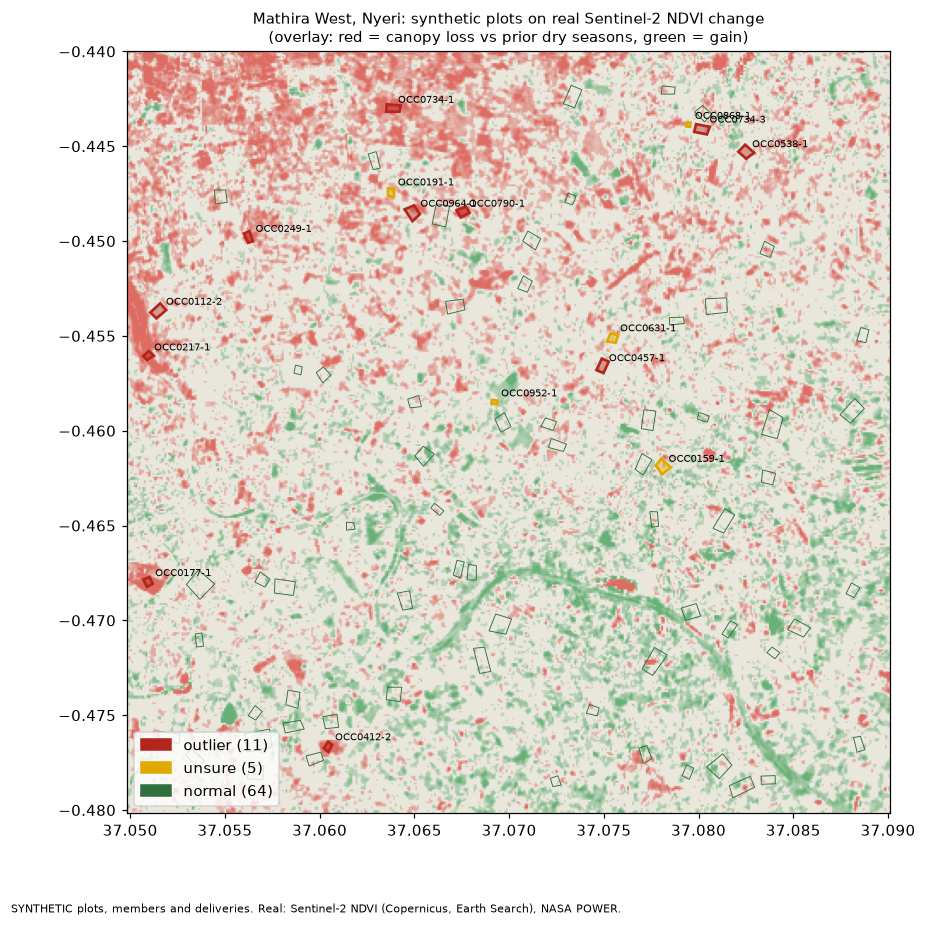
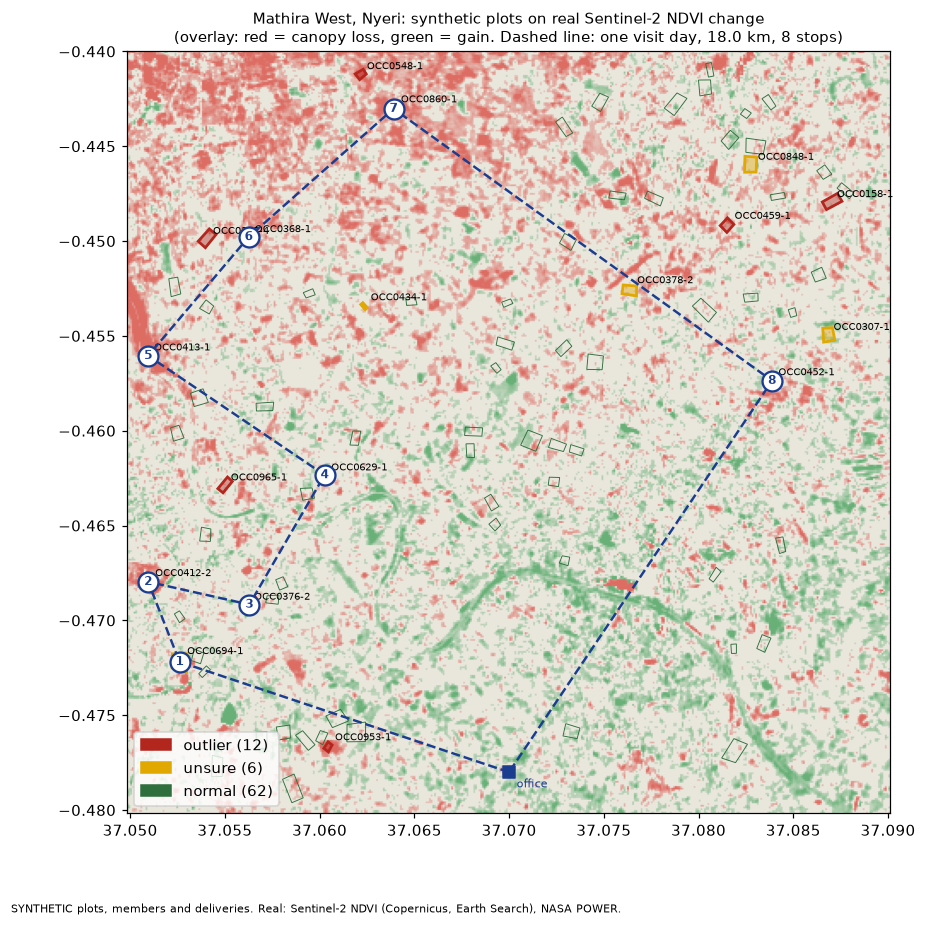
geo: report, contract and status for visit plan and season support

diff --git a/kb/geo/REPORT.md b/kb/geo/REPORT.md
@@ -1,92 +1,117 @@
-# Geo report: cooperative outlier map
+# Geo report: cooperative outlier map and officer visit plan
 
-Built Sat 3 Oct 2026, about 23:00 CEST, by the geo agent. Sentinel-2 works, so NDVI is in (no cut at 02:00 needed).
+Owner: geo agent. Last rebuilt Sat 3 Oct 2026, evening. Sentinel-2 works, so NDVI is in (no 02:00 cut needed).
 
 ## What it is for
-The officer comes twice a year. The cooperative already holds a delivery record per member. This map shows which plots fell or rose much more than their neighbours this season, adds a satellite canopy check, and says plainly where the data is too thin to judge. It points the officer's visits; it does not decide anything.
+The officer reaches the sub-county twice a year at best. The cooperative already holds a delivery record per member. This map answers one question: **which plots should the officer's limited visits go to, and why?** It combines up to three independent signals, says plainly where the data is too thin to judge, and orders one visit day into a short route. It points the visits. It decides nothing.
 
-Where this sits next to the leaf check: Noor's plot (OCC0412-2) is flagged `drop_with_canopy_loss`, so the officer has a reason to visit before the short rains, and her own leaf check referral (`JANI1 M:OCC0412 P:2 ...`) lands on the same plot.
+Where it meets the leaf check: Noor's plot (OCC0412-2) is flagged by satellite and deliveries, and her own leaf-check referral (`JANI1 M:OCC0412 P:2 ... R:6 ...`) lands on the same plot. Three independent signals, one plot.
 
 ## Real and synthetic
 | Part | Real or synthetic | Source |
 |---|---|---|
-| Land under plots, NDVI per season | Real | Sentinel-2 L2A, Earth Search STAC, tile 37MBV |
-| Rainfall per season | Real | NASA POWER `PRECTOTCORR`, point 37.07 E, 0.46 S |
+| Land under plots, dry-season NDVI 2023 to 2026, wet-season NDVI 2025 | Real | Sentinel-2 L2A, Earth Search STAC, tile 37MBV |
+| Rainfall, rain onset, wetness of each NDVI window | Real (model grid) | NASA POWER `PRECTOTCORR`, point 37.07 E, 0.46 S |
 | Area | Real place | Mathira West, Nyeri County, 37.05 to 37.09 E, 0.44 to 0.48 S (about 4.4 x 4.4 km) |
 | Members, plot polygons, tree counts, deliveries | **Synthetic**, seed 20261004 | `app/geo/make_plots.py` |
+| 18 seed leaf-check referrals | **Synthetic** | `app/geo/visit_plan.py` |
 | Yield baseline 3.0 kg cherry per tree | Cited | MOALF 2014 via Mugendi et al. 2015, Nyeri, 2013/14 |
 | 1,300 trees per ha | Cited | Coffee Directorate, Coffee Year Book 2022/23 |
-| Year-to-year cooperative factor (0.85, 1.05, 1.00, 0.85), 15% delivery noise | **Assumption** | Loosely follows the real rainfall pattern |
+| Cooperative factor per year (0.85, 1.05, 1.00, 0.85), 15% delivery noise | **Assumption** | Loosely follows the real rainfall pattern |
+| Visit capacity (8 plots a day), road factor 1.4, priority weights, office location | **Assumption** | No real visit data exists |
 
-Plots were placed only where the prior dry-season NDVI was 0.55 to 0.88 (woody, green in the dry season, not dense forest). We do not know that coffee grows inside any polygon.
+Plots are placed only on land that looks perennial: dry-season NDVI 0.55 to 0.88 in the prior years, wet-season NDVI at least 0.60, and under 0.15 NDVI between the 2025 dry and wet composites (coffee is evergreen; annual crops swing). This removes 12% of pixels. It is a plausibility filter, not a coffee map. We do not know that coffee grows inside any polygon.
 
-## Real data found
-Dry-season NDVI medians over the area: 0.52 (2023), 0.71 (2024), 0.69 (2025), 0.65 (2026). Scenes used per season: 12, 13, 15, 15.
+Noor's drop (deliveries x0.40, no noise) is scripted so the demo story is stable. Every other plot follows its random draw.
 
-Rainfall (NASA POWER, anomaly against 1991 to 2020):
-| Coffee year | Short rains (Oct to Dec) | Long rains (Mar to May) |
-|---|---|---|
-| 2022/23 | -18% | +48% |
-| 2023/24 | +85% | +123% |
-| 2024/25 | +14% | +9% |
-| 2025/26 | -13% | +18% |
+## What the real data says
+**NDVI.** Dry-season medians over the area: 0.52 (2023), 0.71 (2024), 0.69 (2025), 0.65 (2026), from 12, 13, 15 and 15 scenes. Wet-season 2025: 0.69 from 22 scenes.
 
-The low 2023 NDVI follows the poor 2022 short rains. 2023/24 was very wet. This matches what we know of the 2022 drought and the 2024 floods, but we have not cross-checked against CHIRPS.
+**Rain onset (NASA POWER, simplified rule, assumption).** Onset is the first day from 15 Sep (short rains) or 1 Mar (long rains) with 3 days totalling 20 mm or more and no dry run over 7 days in the next 21.
+| | Median onset 1991 to 2020 | Spread (sd) | Earliest to latest |
+|---|---|---|---|
+| Short rains | 19 Oct | 17 days | 17 Sep to 8 Dec |
+| Long rains | 21 Mar | 15 days | 1 Mar to 22 Apr |
 
-## Planted scenarios (synthetic) and results
-| Scenario | Count | What was planted | Expected | Result |
-|---|---|---|---|---|
-| `decline_with_canopy_loss` | 4 | Deliveries x0.45, plot on a real NDVI-loss patch | `outlier`, `drop_with_canopy_loss` | 4 exact (one only through the corroboration rule: delivery z -2.95, canopy z -11) |
-| `delivery_gap_canopy_ok` | 4 | Deliveries x0.40, stable real NDVI | `outlier`, `drop_canopy_normal` | 3 caught. 1 missed (delivery z -2.67) |
-| `over_delivery` | 2 | Deliveries x2.3 | `outlier`, `delivery_spike` | 2 caught |
-| `canopy_loss_early` | 2 | Normal deliveries, real NDVI-loss patch | `outlier`, `canopy_loss` | 2 caught |
-| `new_member` | 2 | One prior season only | `unsure` | 2 abstained |
-| `tiny_plot` | 2 | 0.05 to 0.08 ha, deliveries x0.5 | `unsure` | 2 abstained |
-| `missing_record` | 1 | No delivery this season | `unsure` | 1 abstained |
-| `normal` | 63 | Nothing | `normal` | 63 normal, 0 false flags |
+Share of years with short-rains onset by date: 13% by 1 Oct, 47% by 15 Oct, 87% by 31 Oct, 97% by 15 Nov. Recent onsets: 25 Sep 2019, 22 Sep 2020, 18 Oct 2021, 29 Oct 2022, 4 Oct 2023, 4 Nov 2024, 2 Oct 2025.
 
-Overall: 79 of 80 plots got the expected status and reason. Cooperative median change this season: -12.5% (area-wide drop, flagged as context, not against any member).
+**This year.** NASA POWER ends 30 Sep 2026. September rain was 68 mm against a 57 mm mean (z +0.5), 6.7 mm in the last 7 days. Short-rains onset is not confirmed yet.
 
-### Seed sweep (30 synthetic registries, real NDVI and rainfall fixed)
-`app/geo/sweep.py`, output `app/geo/data/sweep.json`. One seed flatters the model, so the registry was rebuilt 30 times.
-| Measure | Mean | Worst seed |
-|---|---|---|
-| Plots with the expected status and reason | 97.4% | 92.5% |
-| Planted problems caught (status right) | 92.4% | 76.5% |
-| Normal plots flagged per seed (of 63) | 0.4 | 2 |
+**Why this matters for the decision.** The master prompt says copper sprays start in mid October, before the short rains. That fits the median onset (19 Oct), but in about half of years the rains are already under way by 15 Oct. A fixed calendar window is right about half the time. See requests in `kb/STATUS.md`.
 
-Weakest scenarios over 30 seeds: `delivery_gap_canopy_ok` was missed 22 of 120 times (18%), `over_delivery` 9 of 60 (15%). Both are deliveries that moved by a factor of 2 to 2.5 with 15% noise and a spread in the cooperative's own history; some land inside z of 3. Abstentions (`new_member`, `tiny_plot`, `missing_record`) fired every time. Eight normal plots over 30 seeds became `unsure` (thin pixels), and three were flagged `outlier` by chance.
+**Wetness of the NDVI windows.** The "dry season" window (1 Jan to 15 Mar) was not equally dry each year:
+| Window | Rain (mm) | Mean (mm) | z |
+|---|---|---|---|
+| 2023 | 89 | 137 | -0.5 |
+| 2024 | 324 | 137 | +2.0 |
+| 2025 | 138 | 137 | 0.0 |
+| 2026 (current) | 396 | 137 | +2.8 |
+
+The current window was far wetter than normal. Plots are scored against nearby plots, which cancels most area-wide effects, but small canopy changes should be read with care. This is exposed in `outliers.json` as `context.ndviWindowRain`.
+
+## Planted scenarios and results (synthetic, seed 20261004)
+| Scenario | Count | What was planted | Result |
+|---|---|---|---|
+| `decline_with_canopy_loss` | 4 | Deliveries x0.45 on a real NDVI-loss patch | 4 `drop_with_canopy_loss` or equivalent outlier |
+| `delivery_gap_canopy_ok` | 4 | Deliveries x0.40, stable real NDVI | 3 outlier; 1 `unsure` (real canopy z -1.7 is unclear, so the model declined to call it) |
+| `over_delivery` | 2 | Deliveries x2.3 | 2 outlier |
+| `canopy_loss_early` | 2 | Normal deliveries on a real NDVI-loss patch | 2 `canopy_loss` |
+| `new_member`, `tiny_plot`, `missing_record` | 5 | Thin history, under 0.10 ha, no record | 5 `unsure` |
+| `normal` | 63 | Nothing | 62 normal; 1 flagged `canopy_loss` |
+
+78 of 80 plots got the expected status and reason. The one false flag (OCC0459-1) is a real satellite signal: its canopy fell (local z -3.3) while deliveries were normal. We did not plant that, but it is in the real data. The model is right to show it.
+
+Cooperative median delivery change this season: -13.0% (context only, not held against any member). Noor: deliveries -58%, NDVI 0.83 to 0.36, delivery z -3.8, canopy z -13.8.
 
 ### Seed sweep (30 synthetic registries, real NDVI and rainfall fixed)
 `app/geo/sweep.py`, output `app/geo/data/sweep.json`. One seed flatters a model, so the registry and noise were rebuilt 30 times.
-| Measure | Result |
-|---|---|
-| Plots with expected status and reason | 97% on average, 93% in the worst seed |
-| Planted cases given the expected status | 92% on average, 77% in the worst seed |
-| Normal plots flagged as outlier | 3 in 1,890 plot-runs; 8 more marked unsure (thin pixels), 0 to 2 per seed |
-| `over_delivery` (x2.3) missed | 9 of 60 |
-| `delivery_gap_canopy_ok` (x0.40) missed | 22 of 120 (18%) |
+| Measure | Mean | Worst seed |
+|---|---|---|
+| Plots with expected status and reason | 97.7% | 93.8% |
+| Planted cases given the expected status | 92.2% | 70.6% |
+| Normal plots flagged as outlier per seed (of 63) | 0.27 | 1 |
 
-Misses are mostly deliveries-only signals, where there is no satellite corroboration and the member's own noise sits close to the threshold. We did not lower the threshold to win these back: it would raise false flags on real, noisier data.
+Of 1,890 normal plot-runs, 8 were flagged outlier: 7 `canopy_loss` on real NDVI falls and 1 from delivery noise. Weakest scenarios: `over_delivery` missed 17 of 60 times (28%) and `delivery_gap_canopy_ok` 23 of 120 (19%). A x2.3 jump is only about 3.4 robust z-scores against the cooperative's spread, so it sits near the threshold. We did not lower the threshold to win these back: it would add false flags on real, noisier records.
 
-**What these numbers prove:** the rules do what they say on data built to test them. **What they do not prove:** anything about a real cooperative. The scenarios and the noise were written by us, so the hit rate mostly reflects how far the planted effects sit from the noise we chose. The remaining miss is honest: a 55% fall with a normal canopy can sit inside the threshold when the cooperative's own spread is wide. We did not lower the threshold to catch it.
+## Officer visit plan
+`visit_plan.json` ranks every plot by priority points from three signals, groups them into tiers, and orders up to 8 tier A plots (one visit day, assumption) into a closed route from the cooperative office.
+| Signal | Source | Points |
+|---|---|---|
+| Canopy fell much more than neighbours (z at most -3) | Real Sentinel-2 | 40 (25 if z at most -2) |
+| Deliveries fell (z at most -3) | Synthetic record | 30 (15 if z at most -2) |
+| Deliveries rose (z at least 3) | Synthetic record | 20 |
+| Farmer sent a leaf check showing rust on 3 or more of 10 leaves | Synthetic referral | 40 |
+| Farmer's check could not decide | Synthetic referral | 25 |
+| Other problem referral | Synthetic referral | 25 |
+| Data too thin, nothing else | Registry | 5 |
+
+Tier A is 40 points or more (visit now), tier B is 20 to 39 (call the member or check records), tier C is below. Points are a transparent sum, not a probability. A plot with signals from several independent sources ranks above one with a single signal of the same size.
+
+Result on the seed run: tier A 16, B 9, C 55. 18 plots have a linked referral. 9 plots have two or more independent signals. The 8-stop loop is 18.0 km against 28.1 km for the same stops in random order (straight-line times 1.4, not road routing).
+
+**Does the ranking beat chance? (satellite and deliveries only, planted scenarios, synthetic).** Seed run: 7 of the top 8 are planted problems (88%), and all 6 planted canopy-loss plots are in the top 8. Chance is 15%. Over 30 seeds: 93% mean, 75% worst. Route saving against random order: 47% mean, 44% worst.
+
+## What these numbers prove and do not prove
+They show the rules do what they say on data built to test them, and that combining signals puts the planted problems first. They prove nothing about a real cooperative. The scenarios and noise are ours, so the hit rate mostly reflects how far the planted effects sit from the noise we chose. The priority weights are assumptions. They need real visit outcomes to tune, and until then the officer should treat the order as a starting point.
 
 ## Limits and what the data does not cover
-- **No real delivery data.** Thresholds are set by reasoning, not tuned on real records. A real cooperative would need to check the false-flag rate on its own history first.
+- **No real delivery or visit data.** Thresholds and weights are set by reasoning. A real cooperative must check the false-flag rate on its own history first.
 - **NDVI is not coffee health.** Loss can mean stumping or pruning (normal practice), felling, a new building, intercrop removal or disease. It cannot see leaf rust directly. That is the leaf check's job.
-- **Shade trees and intercrops** mix into each 10 m pixel. Smallholder coffee plots of 0.15 ha are only about 15 pixels.
-- **Regional gradient.** The north of the area shows a broad real NDVI decline in early 2026 (northern third, prior median 0.69 to 0.61; plot median change -0.003 in the south, -0.059 in the north). It is not cloud: clear-observation counts are the same north and south (12 to 13). To stop it reading as plot-level loss, the canopy score compares each plot with its 12 nearest plots, not the whole area. This cost no hits on the planted scenarios. The cause of the gradient is unknown to us (rain timing, land-use change, or a processing effect).
-- **One dry season per year.** January to mid March only. The July to September cool dry season is often overcast in the highlands and is not used.
-- **Rainfall is one value for all plots.** NASA POWER is about 0.5 x 0.625 degrees. It gives context, not per-plot cause. CHIRPS (about 5 km) would be the next step.
+- **Shade trees and intercrops** mix into each 10 m pixel. A 0.15 ha plot is about 15 pixels, and fewer after the edge is excluded. Under 10 clear pixels the model abstains.
+- **Regional gradient.** The north of the area shows a broad real NDVI decline in early 2026 (plot median change -0.003 in the south, -0.059 in the north). It is not cloud: clear-observation counts match north and south. Each plot is compared with its 12 nearest plots. We do not know the cause.
+- **Wet "dry season" in 2026** (above). Four seasons are too few to model a rainfall adjustment.
+- **One dry season per year.** January to mid March only. July to September is often overcast in the highlands.
+- **Rainfall is one value for the whole area.** NASA POWER is about 0.5 x 0.625 degrees. It gives context, not per-plot cause. The onset rule is simplified and is not the Kenya Met Department definition. CHIRPS (about 5 km) would be the next step.
 - **Registry quality.** Tree counts are the weakest number in any real registry. `above_plausible_yield` exists because a wrong tree count looks exactly like an outlier.
-- **Side-selling.** `drop_canopy_normal` is consistent with selling to a middleman, but also with late picking, theft, illness or a record error. The officer asks; the map does not accuse.
+- **Side-selling.** `drop_canopy_normal` fits selling to a middleman, but also late picking, theft, illness or a record error. The officer asks; the map does not accuse.
+- **Routing** is straight-line distance times a factor, not roads or terrain.
 
 ## Privacy
-Member numbers only, no names. Plot polygons in a real deployment are personal data: they should stay on the cooperative's systems with member consent, and the public demo uses synthetic polygons only.
+Member numbers only, no names. Plot polygons in a real deployment are personal data. They should stay on the cooperative's systems with member consent. The public demo uses synthetic polygons only. Seed referrals are fake members and fake checks.
 
 ## Files
-- Code: `app/geo/` (`config.py`, `fetch_ndvi.py`, `fetch_rain.py`, `make_plots.py`, `outliers.py`, `validate.py`, `sweep.py`, `preview.py`, `run.sh`)
-- Preview image: `kb/geo/preview.png`
-- Committed derived data: `app/geo/data/` (`rainfall.json`, `ndvi_scenes.json`, `registry.geojson`, `truth.json`, `eval.json`, `sweep.json`)
-- Outputs: `app/public/geo/` (`plots.geojson`, `outliers.json`, `ndvi_change.png`)
+- Code: `app/geo/` (`config.py`, `fetch_ndvi.py`, `fetch_rain.py`, `season.py`, `make_plots.py`, `outliers.py`, `visit_plan.py`, `validate.py`, `sweep.py`, `preview.py`, `run.sh`)
+- Committed derived data: `app/geo/data/` (`rainfall.json`, `season_support.json`, `ndvi_scenes.json`, `registry.geojson`, `truth.json`, `eval.json`, `visit_eval.json`, `sweep.json`)
+- Outputs: `app/public/geo/` (`plots.geojson`, `outliers.json`, `ndvi_change.png`, `visit_plan.json`, `referrals_seed.json`)
+- Preview: `kb/geo/preview.png`
 - Contract: `kb/geo/CONTRACT.md`

diff --git a/kb/STATUS.md b/kb/STATUS.md
@@ -31,8 +31,10 @@ Update your own rows only. Keep it short. Status: `todo`, `doing`, `blocked`, `d
 | C2 | Swahili + Kikuyu translations | content-voice | Sat 23:30 | todo | |
 | C3 | Audio rendered (ElevenLabs, MMS) | content-voice | Sun 00:30 | todo | needs L2 |
 | G1 | Real data: Sentinel-2 dry-season NDVI (Earth Search, SCL mask) and NASA POWER rainfall, Mathira West, Nyeri | geo | Sun 02:00 | done | 4 composites (Jan to mid Mar 2023 to 2026, 12 to 15 scenes each); rainfall 1991 to Sep 2026. NDVI kept, no cut |
-| G2 | Synthetic registry (80 plots, 66 members) and deliveries with planted scenarios, labelled synthetic | geo | Sun 02:00 | done | Noor is OCC0412-2 (`drop_with_canopy_loss`) |
-| G3 | Robust-z outlier model, reason codes, abstention; `public/geo/plots.geojson`, `outliers.json`, `ndvi_change.png` | geo | Sun 02:00 | done | 79 of 80 planted cases as expected, 0 false flags on 63 normal; over 30 seeds 97% match, 92% of planted problems caught, 0.4 false flags per 63 (all synthetic). Contract `kb/geo/CONTRACT.md`, report `kb/geo/REPORT.md` |
+| G2 | Synthetic registry (80 plots, 63 members) on perennial-looking land, deliveries with planted scenarios, labelled synthetic | geo | Sun 02:00 | done | Noor is OCC0412-2 (scripted drop, `drop_with_canopy_loss`) |
+| G3 | Robust-z outlier model with local canopy baseline, reason codes, abstention; `public/geo/plots.geojson`, `outliers.json`, `ndvi_change.png` | geo | Sun 02:00 | done | 78 of 80 as expected (seed run). 30 seeds: 98% match, 0.27 false outliers per 63 normal plots (synthetic). Contract `kb/geo/CONTRACT.md`, report `kb/geo/REPORT.md` |
+| G4 | Rain onset and season windows from NASA POWER; wetness of each NDVI window | geo | Sun 02:00 | done | `app/geo/data/season_support.json`. Short-rains onset median 19 Oct, sd 17 days, before 15 Oct in 47% of years |
+| G5 | Officer visit plan (ranked, tiers, 8-stop route) and 18 synthetic seed referrals | geo | Sun 02:00 | done | `public/geo/visit_plan.json`, `referrals_seed.json`. Top 8 hold 93% of planted problems over 30 seeds vs 15% by chance (synthetic) |
 | D1 | Doc skeletons | docs | Sat 22:30 | todo | |
 | D2 | DATA_CARD, RESPONSIBLE_AI, LANGUAGES, REPLICATION | docs | Sun 10:30 | todo | needs R1, R3, M5 |
 | D3 | README final | docs | Sun 11:00 | todo | |
@@ -51,9 +53,14 @@ Update your own rows only. Keep it short. Status: `todo`, `doing`, `blocked`, `d
 - geo to lead: `kb/agents/geo.md`, `kb/research/EVIDENCE.md` and MASTER_PROMPT sections 3.4 and 3.5 were not in the repo when geo ran. Built from the task spec instead. Please add the geo paths (`app/geo/**`, `app/public/geo/**`, `kb/geo/**`) to `kb/OWNERSHIP.md`.
 - geo to engine: please add a "Geo outputs" section to `kb/CONTRACTS.md` pointing to `kb/geo/CONTRACT.md`.
 - geo to research: yield baseline (E3) used 3.0 kg cherry per tree, Nyeri, MOALF 2014 via Mugendi et al. 2015, and 1,300 trees per ha (Coffee Year Book 2022/23). Replace if E3 says otherwise.
+- geo to research: NASA POWER gives short-rains onset median 19 Oct, sd 17 days, onset by 15 Oct in 47% of years and by 1 Oct in 13% (simplified rule, assumption). A fixed "mid October" window is right about half the time. Please cross-check against Kenya Met Department or CHIRPS before it goes in `season.json`. Details and suggested windows in `app/geo/data/season_support.json`.
+- geo to lead and engine: because onset varies by weeks, consider one yes/no question in the farmer flow ("have the rains started?") feeding `seasonWindow`. The person answers; the tool does not guess. Your call.
+- geo to engine and content-voice: `kb/agents/content-voice.md` puts `distinct_problems_gte: 2` before the rust rule, but the contract example `JANI1 ... R:6 ... L:1 ... A:rust_high_pre_rains` has two problems. Rule order and example disagree. Geo seeds use the rule order and give Noor 6 rust only.
+- geo to ui: officer map also reads `/geo/visit_plan.json` (ranked plots, route, signal text) and `/geo/referrals_seed.json` (18 synthetic referrals matching the `referrals` table plus `sms`, `lon`, `lat`). Always show a ranked plot with its `signals`. Mark everything synthetic. Rules in `kb/geo/CONTRACT.md`.
 - geo to ui: officer map reads `/geo/plots.geojson` and `/geo/outliers.json`; overlay `/geo/ndvi_change.png` with `overlay.bounds`. Show the synthetic tag. Rules in `kb/geo/CONTRACT.md`.
 
 ## Log
 - Sat 21:00: kb set up, six agent briefs written.
 - Sat 23:00: geo G1 to G3 done. Sentinel-2 and NASA POWER both working.
 - Sat 23:30: geo: local canopy baseline, corroboration rule, contract validator, 30-seed sweep, preview map.
+- Sat 23:50: geo: season/rain-onset analysis, perennial-land filter, officer visit plan and seed referrals (G4, G5).

diff --git a/kb/geo/CONTRACT.md b/kb/geo/CONTRACT.md
@@ -10,6 +10,8 @@ Proposed for `kb/CONTRACTS.md` under "Geo outputs" (engine owns that file; see R
 | `/geo/plots.geojson` | One polygon per member plot, WGS84 | about 60 KB |
 | `/geo/outliers.json` | Model result per plot, context, legend, sources | about 50 KB |
 | `/geo/ndvi_change.png` | Real NDVI change overlay, RGBA, WGS84 | about 210 KB |
+| `/geo/visit_plan.json` | Ranked plots, tiers, one-day route for the officer | about 30 KB |
+| `/geo/referrals_seed.json` | 18 synthetic leaf-check referrals for the dashboard seed | about 10 KB |
 
 ## `plots.geojson`
 FeatureCollection, top-level `synthetic: true`, `season`. Each feature `properties`:
@@ -25,6 +27,9 @@ FeatureCollection, top-level `synthetic: true`, `season`. Each feature `properti
   status: 'outlier' | 'unsure' | 'normal';   // for map colouring, same as outliers.json
   reason: string | null;   // first reason code, else first abstain code
   nextStep: NextStep;
+  priorityPoints: number;   // from visit_plan.json
+  tier: 'A' | 'B' | 'C';    // A visit now, B call or check records, C no action from this map
+  hasReferral: boolean;     // a seed leaf-check referral exists for this plot
   ndviSeries: { season: string; median: number | null; clearPx: number; totalPx: number }[]; // real
 }
 ```
@@ -41,6 +46,8 @@ FeatureCollection, top-level `synthetic: true`, `season`. Each feature `properti
     areaWideDrop: boolean;               // true when that median is -10% or worse
     rainfall: { shortRainsAnomalyPct: number; longRainsAnomalyPct: number; coffeeYearTotalMm: number; climatology: string; source: string };
     ndviSeasonMedians: Record<string, number>;
+    ndviWindowRain: { window: string; rainMm: number; climatologyMm: number; z: number; caveat: string } | null;
+    shortRains: { medianOnset: string; sdDays: number; shareOnsetBefore15Oct: number; onsetConfirmedThisYear: boolean; dataEnd: string; source: string } | null;
   };
   overlay: { image: '/geo/ndvi_change.png'; bounds: [[south, west], [north, east]]; meaning: string };
   counts: { outlier: number; unsure: number; normal: number };
@@ -96,3 +103,23 @@ A plot with good deliveries but no readable canopy is also `unsure`: we say the 
 - Show the source line for the NDVI overlay and rainfall (`sources` array).
 - `unsure` is its own colour, never merged into `normal`.
 - Never show `drop_canopy_normal` as wrongdoing. Use the legend text.
+
+## `visit_plan.json`
+```ts
+{
+  version: 'geo-1'; season: string; generatedAt: string;
+  synthetic: { deliveries: true; referrals: true; plots: true; satellite: false };
+  assumptions: { capacityPerVisitDay: number; circuity: number; office: { name; lon; lat }; weights: Record<string, number>; tiers: Record<'A'|'B'|'C', string>; note: string };
+  tiers: { A: number; B: number; C: number };
+  route: { stops: Stop[]; totalKm: number; randomOrderMeanKm: number; note: string };  // closed loop from the office, in visiting order
+  ranking: RankedPlot[];        // every plot with points > 0, highest first
+  referralsLinked: number; independentAgreement: number;   // plots with 2+ independent signals
+}
+interface Signal { source: 'satellite' | 'deliveries' | 'leaf_check' | 'records'; text: string }   // text is officer-facing English
+interface Stop { stop: number; plotId; memberId; plot; lon; lat; legKm: number; points: number; independentSignals: number; tier: 'A'; signals: Signal[] }
+interface RankedPlot { rank: number; plotId; memberId; plot; points: number; tier: 'A'|'B'|'C'; independentSignals: number; geoStatus: 'outlier'|'unsure'|'normal'; nextStep: NextStep; referralId: string | null; signals: Signal[] }
+```
+Points are a transparent sum, not a probability. Show `signals` as the reason for every ranked plot. Never show a plot as ranked without its reasons.
+
+## `referrals_seed.json`
+`{ synthetic: true, note, referrals: Referral[] }`. Each referral matches the `referrals` table in `kb/agents/ui.md` (`id, created_at, member_id, plot_id, check_date, counts, uncertain, answer_id, confidence, photos_shared, status, synthetic`) plus `sms` (a valid `JANI1` string, at most 160 GSM-7 characters, for the "paste SMS" box), `geoPlotId` (join key to `plots.geojson`), and `lon`, `lat` (plot centre for the map). Check dates fall on weekends, because the smartphone is home only at weekends. `answer_id` values mirror the example rule table in `kb/agents/content-voice.md`; they should be replaced with engine output when available.
